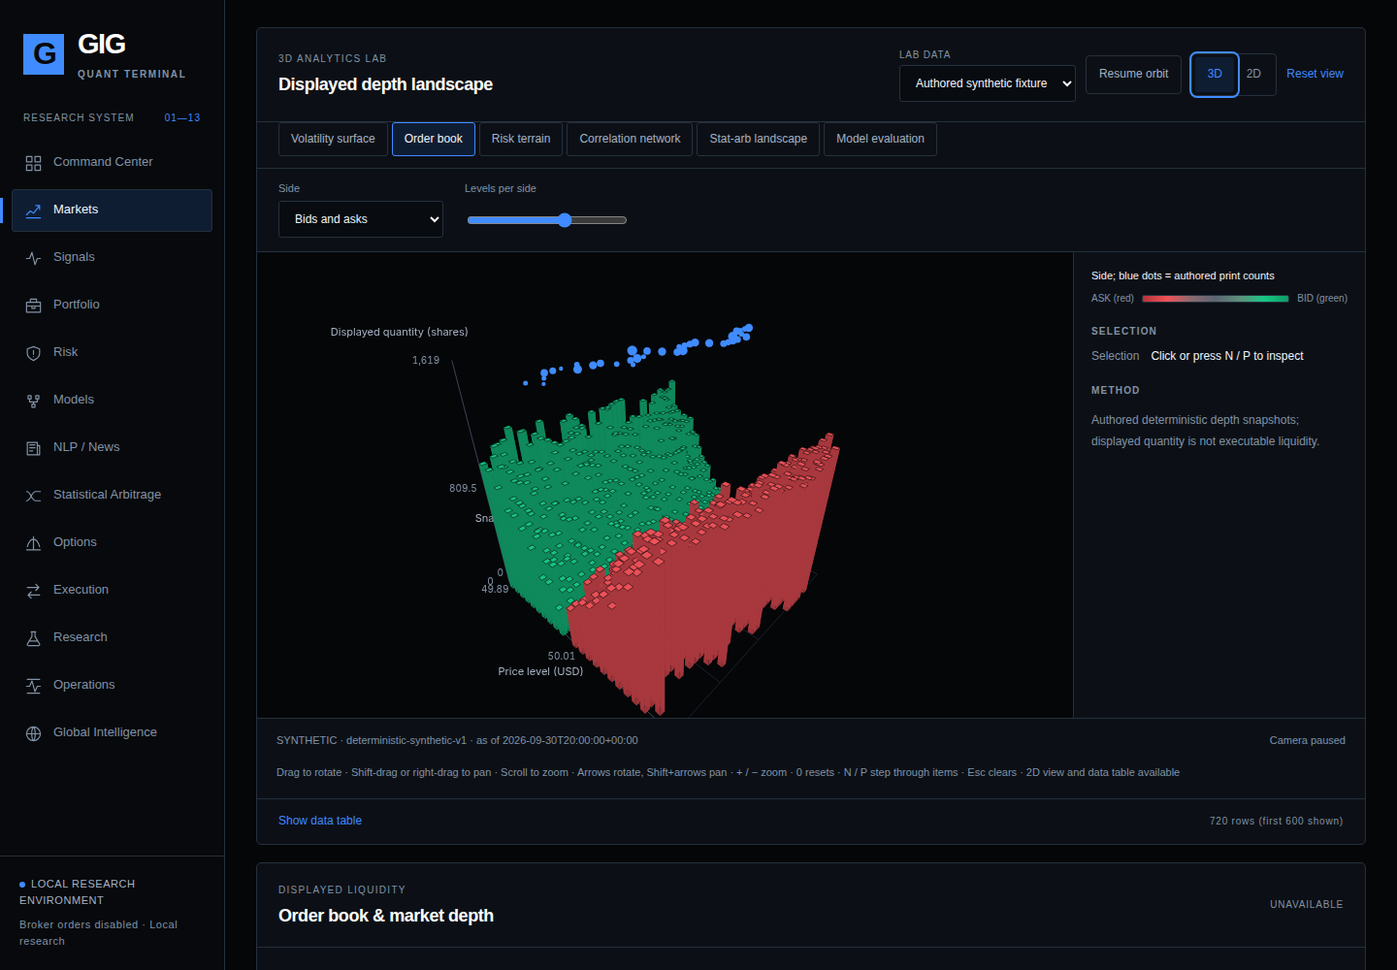
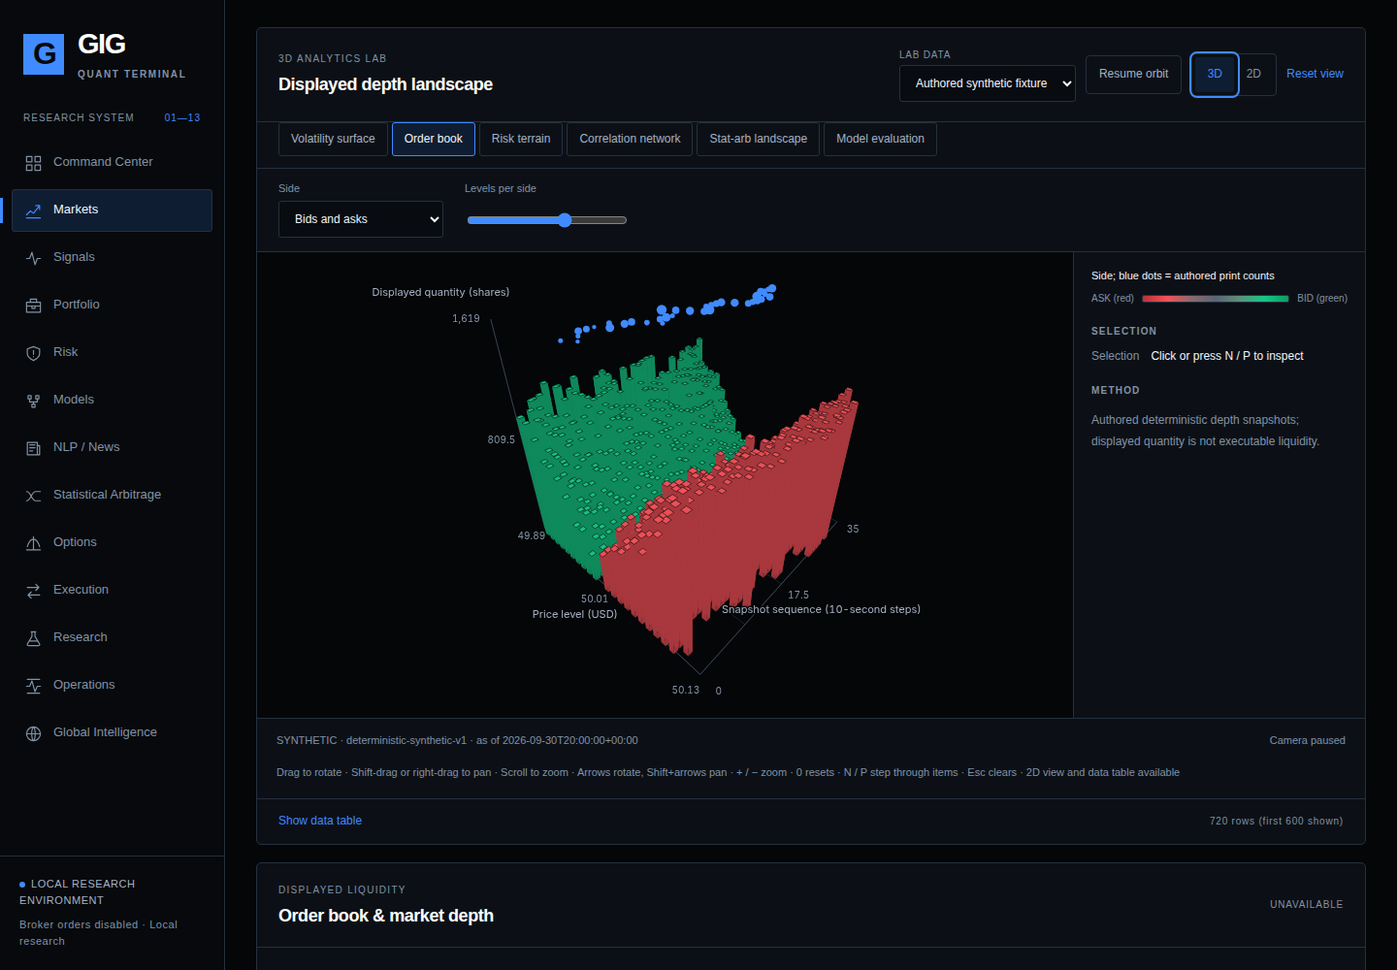
Correct the completion matrix data classes, CI and accessibility evidence; document intel hardening and 3D input sensitivity; add the next-phase plan; regenerate global-3d evidence

Changed region(s): [[0.3438, 0.279, 0.6562, 0.744], [0.2812, 0.279, 0.3438, 0.31], [0.2812, 0.341, 0.3125, 0.372]]

diff --git a/docs/completion-matrix.md b/docs/completion-matrix.md
@@ -2,7 +2,22 @@
 
 Sprint 9 delivery: [sprint9-delivery.md](sprint9-delivery.md). Redesign, 3D lab and Global Intelligence:
 [global-intelligence.md](global-intelligence.md), [analytics-lab-3d.md](analytics-lab-3d.md); backend regression at
-`5ffd805`: 1584 JUnit cases, 0 failed, 11 skipped, 81.89% branch coverage; browser evidence at `fb576a1` (CSS-only change).
+`5ffd805` and again at `47e3180`: 1584 JUnit cases, 0 failed, 11 skipped, 81.89% branch coverage. Follow-up hardening on
+`cursor/gig-next-phase-26c4`: see "Data classes" below and [next-phase plan](next-phase-plan.md).
+
+## Data classes
+
+| Class | Where it appears | What it means |
+| --- | --- | --- |
+| OBSERVED (DELAYED) | USGS earthquakes, NASA EONET events | Acquired from the provider by an explicit refresh; provider feeds lag real time, so never LIVE |
+| CACHED | USGS/EONET after a failed refresh or past the staleness window | Last acquired revision, shown with its acquisition time |
+| HISTORICAL | Replay cutoffs more than one hour in the past; admitted HISTORICAL_OBSERVATION reports | Only revisions acquired at or before the cutoff |
+| CALLER-ASSERTED | Analyst-admitted geopolitical/defense reports | Citation verified as HTTPS and policy-checked; content truth asserted by the admitting analyst |
+| SYNTHETIC / DEMONSTRATION | All six 3D module inputs; authored hazard demonstration events; admitted SYNTHETIC records | Authored data, labelled in the envelope, legend and footer; dashed markers on the globe |
+| UNAVAILABLE | AIS, OpenSky ADS-B, satellite imagery, FIRMS, admitted-local 3D inputs | Listed with blocker; nothing drawn or simulated |
+| CANDIDATE | GDACS | Reachable; reuse terms not reviewed; not ingested |
+
+No sanctions source is in the registry. Sanctions material can enter only as a cited admitted report.
 
 Authority: [Sprint 8 direct-chat directive](directives/sprint8-direct-chat-20261103.md),
 [accelerated master directive](directives/sprint7-master-20261103.md),
@@ -51,22 +66,22 @@ proving completion of new requirements. No baseline source was discarded.
 | OFI, Lee–Ready estimate, Kyle, VPIN (§8) | COMPLETE | Persisted quote/print fixtures and scalar references | True print/quote feeds for observed validation; depth is not executions | P1; permitted source evidence |
 | Executed-cost / market-impact / capacity evidence (§8) | COMPLETE | Sprint 9 `execution/cost_evidence.py`: class-separated ESTIMATED/SIMULATED/OBSERVED_HISTORICAL reports, exact shortfall identity, independent print matching, measured non-causal impact, print-derived capacity; 8 tests; Chromium workbench | No observed executions/prints in repository, so observed class is fixture-exercised only; broker-reconciled class rejected | P1; observed executions/prints absent |
 | Market-data lineage / point-in-time eligibility (§4) | COMPLETE | Sprint 9 `data/provenance.py`: license, permission, five clocks, revision history, CA basis, identity, quality and verified lineage hash; purpose-specific ELIGIBLE/UNKNOWN/INELIGIBLE with parent inheritance; 9 tests | Documented ECB/UCI sources are not point-in-time eligible; vintage evidence required | P0; source clock evidence |
-| Free continuous integration (§13,15) | COMPLETE | Sprint 9 `.github/workflows/ci.yml`: GitHub-hosted 3.11/3.12 backend matrix, native build, lint/types/tests/coverage, Node smoke and Chromium workflow; read-only token | Whole-package mypy drift (9 pre-existing errors) keeps typing scoped to new modules | P1; no paid runners |
+| Free continuous integration (§13,15) | COMPLETE | Sprint 9 `.github/workflows/ci.yml`: GitHub-hosted 3.11/3.12 backend matrix, native build, lint/types/tests/coverage, Node smoke and Chromium workflow; read-only token; green on `47e3180` (runs 41775322422, 41775328878) after `b3c0668` (`python -m pytest`) and `47e3180` (section-ready wait); follow-up branch adds pinned SHA-256-verified axe-core | Whole-package mypy drift (9 pre-existing errors) keeps typing scoped to new modules | P1; no paid runners |
 | Actual funded Greeks, scenarios, concentration/funding (§9) | COMPLETE | Actual positions override hypothetical counts; working-order budgets and mark guards | Extend optional sector/factor/drawdown contracts | P0; scoped model estimates |
 | Funded sector/factor constraints and drawdown (§9) | COMPLETE | Delta-equivalent sector/factor budgets and immutable NAV drawdown tests | Explicit exposure/knowledge metadata and saved history; no inferred zero beta | P0; metadata availability |
 | Historical VaR/ES (§9) | COMPLETE | Empirical reference on 21 comparable daily funded NAV marks; gaps unavailable | New lifecycle must preserve capital/mark comparability | P1; sufficient admissible history |
 | Atomic risk policy/kill, pre-trade/post-event recovery (§9) | COMPLETE | Risk-index/kill rollback, stale post-fill and admission tests | Lifecycle/reconciliation hooks must retain guarantees | P0; none |
 | All twelve sections / typography / themes / 3D / 2D (§10) | COMPLETE | Chromium 78 + retained suites; Node 106 baseline checks | Wire new verified workspaces through existing design | P1; integration work |
-| Institutional deep-black redesign, thirteen sections (UI directive) | COMPLETE | `#050608` palette layer in `styles.css`; twelve original sections preserved plus Global Intelligence; retained Chromium suites 87/24/32/60/78/82/194/28 and global-3d acceptance pass with axe-core contrast in dark and light themes | Visual review on further hardware/browsers | P1; none |
-| Six interactive 3D analytics modules (UI directive) | COMPLETE | `viz.py` + `viz3d.js`/`models3d.js`: vol surface, order-book landscape, risk terrain, correlation network, stat-arb landscape, model evaluation; orbit/zoom/pan/hover/select/filter, axes/legends, keyboard, pause, reduced motion, 2D table fallback, listener cleanup; stored outputs equal recomputation; `tests/test_viz_modules.py`; Chromium global-3d checks | Inputs are labeled SYNTHETIC/DEMONSTRATION; observed option chains, depth and holdings absent | P1; observed inputs |
-| Global Intelligence workspace (UI directive) | COMPLETE | `gig/intel` + `intel_workspace.py` + `intel.js`: orthographic globe and flat map from local Natural Earth geometry, layers, search, timeline playback, feed, cited details, freshness/health, saved investigations; USGS and NASA EONET adapters with revisions and backoff; event study and theme exposure; [design and source disposition](global-intelligence.md) | Maritime AIS, ADS-B, imagery, GDACS, FIRMS and sanctions shown UNAVAILABLE pending permitted free access; no World Monitor (AGPL-3.0) code reused | P1; source permissions/keys |
+| Institutional deep-black redesign, thirteen sections (UI directive) | COMPLETE | `#050608` palette layer in `styles.css`; twelve original sections preserved plus Global Intelligence; retained Chromium suites 87/24/32/60/78/82/194/28 (axe-core) and global-3d acceptance pass; at `47e3180` the global-3d suite had no axe scan; the follow-up branch adds axe WCAG A/AA scans of Options and Global Intelligence in dark and light themes and fixes 3D label clipping/overlap found in screenshot review | Visual review on further hardware/browsers | P1; none |
+| Six interactive 3D analytics modules (UI directive) | COMPLETE | `viz.py` + `viz3d.js`/`models3d.js`: vol surface, order-book landscape, risk terrain, correlation network, stat-arb landscape, model evaluation; orbit/zoom/pan/hover/select/filter, axes/legends, keyboard, pause, reduced motion, 2D table fallback, listener cleanup; stored outputs equal recomputation; `tests/test_viz_modules.py`; Chromium global-3d checks; follow-up branch: builders take explicit inputs, input-sensitivity and no-look-ahead tests, and a browser check that a changed payload changes the rendering | Inputs are labeled SYNTHETIC/DEMONSTRATION; observed option chains, depth and holdings absent | P1; observed inputs |
+| Global Intelligence workspace (UI directive) | COMPLETE | `gig/intel` + `intel_workspace.py` + `intel.js`: orthographic globe and flat map from local Natural Earth geometry, layers, search, timeline playback, feed, cited details, freshness/health, saved investigations; USGS and NASA EONET adapters with revisions and backoff; event study and theme exposure; [design and source disposition](global-intelligence.md) | Maritime AIS, ADS-B, imagery and FIRMS shown UNAVAILABLE and GDACS CANDIDATE pending permitted free access; no sanctions source; follow-up branch refuses off-host redirects before following, fails closed on malformed payloads and records USGS update time separately; no World Monitor (AGPL-3.0) code reused | P1; source permissions/keys |
 | Geopolitical & defense research workspace (UI directive) | COMPLETE | `intel/defense.py`: ≥24h publication delay, 1° coarsening, closed fields, HTTPS citations, exercise not treated as conflict; ARMY/AIR FORCE/NAVY/GEOPOLITICAL aggregates and market risk monitor | Admitted public reports only; no unit or platform tracking, interception or targeting support by design | P0; permanent boundary |
 | New observed/lifecycle/reconciliation terminal workflows (§10) | COMPLETE | Chromium 151: 77 Sprint 7 checks; retained suites 87/24/32; Node 128 | Backend contracts then real Chromium/restart/accessibility checks | P1; backend readiness |
 | Bounds, serialization, errors, secrets, corruption, recovery (§11) | COMPLETE | Existing API, persistence and recovery tests | Repeat focused new-boundary checks, not a full institutional audit | P0; none |
 | CPU C++20 / wheel / installation (§11,13) | COMPLETE | x86 native parity, wheel content hashes/import tests | Reverify new release; no GPU or infrastructure expansion | P1; none |
 | Fresh current container lifecycle (§11) | BLOCKED | Previous Sprint 4 image/restart evidence is scoped to that source | Read-only VFS gate: 0 available Docker-store bytes; requires at least 3 GiB container reserve / 6 GiB plus budget for build | P2; local disk capacity, no source/evidence deletion |
 | Physical Ubuntu 24.04 ARM64/Ampere (§11) | BLOCKED | Prior QEMU evidence explicitly separate | Actual hardware/runtime acceptance required; no spending/provisioning | P2; hardware unavailable |
-| Browser/manual accessibility / cross-browser (§13) | IN PROGRESS | Chromium 151 / axe 4.10.3; Sprint 9 Chromium 156 operations workflow 28/0; Chromium 156 thirteen-section retained suites (585/0) and global-3d acceptance 102/0 with one USGS/EONET request and 100/0 offline, 23 screenshots in `evidence/global-3d/`; selected manual inspection | Chromium194 checks; Firefox153 assets installed but startup timeout/uid_map EROFS/compositor errors; formal accessibility and broader browser acceptance remain open | P1; available tools/hardware |
+| Browser/manual accessibility / cross-browser (§13) | IN PROGRESS | Chromium 151 / axe 4.10.3; Sprint 9 Chromium 156 operations workflow 28/0; Chromium 156 thirteen-section retained suites (585/0) and global-3d acceptance 102/0 with one USGS/EONET request and 100/0 offline at `47e3180`; follow-up branch 107/0 live (USGS 339, EONET 44 acquired) and 105/0 offline including axe WCAG A/AA with 0 violations (1 incomplete item per scan, manual review) on Options and Global Intelligence in both themes; 23 screenshots in `evidence/global-3d/` inspected individually | Chromium194 checks; Firefox153 assets installed but startup timeout/uid_map EROFS/compositor errors; formal accessibility and broader browser acceptance remain open | P1; available tools/hardware |
 | Final comprehensive engineering acceptance (§13,16) | NOT STARTED | This matrix is the available requirements disposition | One final acceptance review after substantive work, not repeated audits | P0; feature completion first |
 | Verified publication and independently restored archives (§14) | COMPLETE | Sprint8 637-file release and643-file follow-up GitHub restores, every hash/mode; rebuilt native wheel and13 numerical checks; local Git bundle | Maintain pinned-source archives at each substantial checkpoint; GitHub is the sole verified external provider | P0; GitHub sole verified external provider |
 | Historical §139 / full T4 acceptance (§3,15,16) | BLOCKED | §139 UNSUPPLIED; T4_NOT_CERTIFIED | Required authoritative acceptance contract and independent evidence | P0; unsupplied requirements |

diff --git a/docs/next-phase-plan.md b/docs/next-phase-plan.md
@@ -1,0 +1,67 @@
+# Next development phase
+
+Follows PR #3 (Sprint 9 reconstruction, deep-black redesign, six 3D modules,
+Global Intelligence). PR #3 stays the review checkpoint; this phase lands on
+follow-up branches based on it.
+
+Boundaries carried unchanged: strict $0 additional spending, no brokerage
+orders (live or paper), no fabricated data, no reuse of third-party code without
+a compatible license, no real-time tracking of military units, aircraft or
+vessels, no targeting or interception support. `fully_funded_certified=false`,
+`T4_NOT_CERTIFIED` and Historical §139 UNSUPPLIED remain.
+
+## Admission gate for any new source
+
+A source moves from CANDIDATE to INTEGRATED only when all of these are recorded
+in `gig.intel.sources` (or the market-data provenance registry) and tested:
+
+1. Reuse terms read and quoted with their URL and review date; redistribution
+   and caching permitted for this use.
+2. Fixed HTTPS endpoint reachable from the CI and agent environments without a
+   paid plan; any free key comes from a secret, never the repository.
+3. Provider rate limit and refresh interval encoded; backoff tested.
+4. Normalizer tested against a recorded real response, with malformed,
+   non-finite and redirect cases failing closed.
+5. Time semantics stated (DELAYED, HISTORICAL or aggregated period); LIVE only
+   with verified real-time semantics.
+
+Listed sources below are candidates. None is asserted usable until it passes
+the gate.
+
+## Workstreams
+
+| Area | Candidate free sources (terms to verify) | Deliverable | Main risk |
+| --- | --- | --- | --- |
+| Permitted real market data | ECB reference rates (integrated); U.S. Treasury Fiscal Data yield curves; SEC EDGAR filings (declared User-Agent, fair-access rate); FRED (free key) | Observed daily rates and filings admitted through `data/provenance.py`; vol-surface and correlation builders run on admitted series where coverage exists | No free licensed equity or option quote feed; most vendor sites forbid redistribution |
+| Maritime | NOAA/BOEM Marine Cadastre historical AIS (U.S. waters, archived); IMF PortWatch aggregates | Historical, aggregated port-call and chokepoint-transit counts by day; no vessel positions | Files are large; aggregate terms need review; global live AIS stays BLOCKED |
+| Civil aviation | BTS on-time and traffic statistics; OpenSky historical (non-commercial, unreachable here) | Monthly and daily aggregated traffic by airport and region | OpenSky network access and terms; no per-aircraft display |
+| Satellite imagery | NASA GIBS WMTS tiles; Sentinel-2 open-data STAC catalogue (not requester-pays) | Optional, user-triggered periodic imagery layer with acquisition date; off by default | External tiles conflict with the current no-external-asset rule, so they need an explicit opt-in; requester-pays buckets excluded |
+| Environmental | NWS alerts API (public domain, User-Agent); GDACS after terms review; FIRMS with a free MAP_KEY secret | Additional DELAYED hazard layers through the same adapter contract | FIRMS key must be supplied by the user as a secret |
+| Historical defense intelligence | UCDP datasets (CC BY 4.0); SIPRI military expenditure (citation terms) | Annual and event-level historical aggregates by country and region, admitted through `intel/defense.py` | Must stay aggregated and delayed; ACLED excluded unless its terms allow this use |
+| Geopolitical market risk | GDELT event aggregates (citation required) | Daily theme-attention counts joined to the risk monitor, labelled not causal | Volume and noise; must not be presented as forecasts |
+| Portfolio exposure and event studies | Funded paper portfolio and admitted observed series already in the repository | Event studies run on admitted ECB/UCI series and funded holdings; theme exposure read from funded positions instead of caller tags where metadata exists | Short observed history limits statistical power |
+| Cross-browser and accessibility | Playwright WebKit and Firefox; axe-core 4.10.3 (pinned) | Same acceptance suites on WebKit and Firefox in CI; axe on all thirteen sections; manual keyboard and screen-reader pass recorded | Firefox failed to start in this VM (uid_map EROFS); may need CI-only runs |
+| Performance | Local measurement only | Budgets for first paint, section switch, 3D frame time and `/api/v1/intel/overview` latency, recorded in CI; lazy section loading kept | Headless timing noise; budgets must be relative |
+
+## Order of work
+
+1. Cross-browser and axe coverage for all sections, since every later feature
+   depends on that acceptance harness.
+2. Market data (Treasury, EDGAR) and event-study integration with funded
+   holdings, because they extend existing provenance code.
+3. Environmental and historical defense aggregates (NWS, UCDP), then maritime
+   and aviation aggregates.
+4. Opt-in imagery layer last, because it changes the external-asset policy.
+5. Performance budgets in parallel once the suites are stable.
+
+## Done for this phase on `cursor/gig-next-phase-26c4`
+
+- Intel acquisition hardening: redirects off the registry host refused before
+  following, strict JSON, payloads that are malformed or contain non-finite
+  values fail closed with backoff, USGS `provider_updated_at`, conservative
+  event-study day 0, and partitioned risk-monitor counts.
+- 3D builders take explicit inputs, with input-sensitivity and no-look-ahead
+  tests and a browser check that rendering follows the payload.
+- 3D label fitting, halos, clamping and collision avoidance.
+- axe-core WCAG A/AA scans of Options and Global Intelligence in both themes,
+  pinned and SHA-256 verified in CI.

diff --git a/docs/global-intelligence.md b/docs/global-intelligence.md
@@ -43,19 +43,31 @@ never emitted: no integrated source has verified real-time semantics.
   DEMONSTRATION; they are drawn with dashed markers.
 
 Each event carries provider, dataset, license, observation time, publication
-time (or "not supplied"), acquisition time, reporting delay, geographic
-uncertainty with its basis, verification state, revision count and hash, and
-citations.
+time (or "not supplied"), provider last-updated time, acquisition time,
+reporting delay, geographic uncertainty with its basis, verification state,
+revision count and hash, and citations.
+
+USGS summary feeds give an `updated` timestamp but no first-publication time,
+so USGS events record `published_at` as not supplied and keep `updated` as
+`provider_updated_at`; the reporting delay is measured to acquisition, not to an
+assumed publication. Non-finite or non-numeric magnitudes and depths are
+recorded as unknown rather than coerced.
 
 ## Provider requests
 
 Reads never contact a provider. `POST /api/v1/intel/refresh` is the only path:
-it accepts only a registry source, uses that source's fixed HTTPS URL, allows
-redirects only to the same host, bounds the response size, enforces the
-source's minimum refresh interval and exponential failure backoff, and appends
-immutable revisions (a changed provider record becomes a new revision; an
-unchanged one is not duplicated). Deferred and failed attempts return a status
-record; previously acquired events remain available as CACHED.
+it accepts only a registry source, uses that source's fixed HTTPS URL, refuses
+any redirect to another host or to a non-HTTPS URL before following it, bounds
+the response size, enforces the source's minimum refresh interval and
+exponential failure backoff, and appends immutable revisions (a changed provider
+record becomes a new revision; an unchanged one is not duplicated).
+
+Provider JSON is parsed strictly (NaN and Infinity rejected). A payload is
+accepted or rejected whole: if any record fails normalization nothing from it is
+stored, so a partial feed is never presented as complete. Every failure
+(HTTP_STATUS, REDIRECT_REJECTED, INVALID_PAYLOAD, TIMEOUT_OR_NETWORK) is logged
+and counts toward backoff. Deferred and failed attempts return a status record;
+previously acquired events remain available as CACHED.
 
 ## Geopolitical and defense research
 
@@ -83,9 +95,15 @@ forecasts, targeting or interception support.
   container shipping, aviation, defense, insurance, regional FX and equities.
   They are labeled RESEARCH_HYPOTHESIS_NOT_CAUSAL.
 - The Geopolitical Market Risk Monitor counts linked events per theme, split
-  into confirmed and unverified; counts are attention indicators, not forecasts.
+  into confirmed, unverified and other (demonstration, scenario or historical),
+  so the three always sum to the event count; counts are attention indicators,
+  not forecasts.
 - Event studies (mean-adjusted or market model) estimate strictly before the
-  event window and are labeled DESCRIPTIVE_SINGLE_EVENT_NOT_CAUSAL.
+  event window and are labeled DESCRIPTIVE_SINGLE_EVENT_NOT_CAUSAL. Day 0 is the
+  first return stamped on or after the event's UTC date
+  (`FIRST_RETURN_ENDING_ON_OR_AFTER_EVENT_UTC_DATE`), so an intraday event on
+  daily data never leaks into the estimation window. Instrument and source must
+  be nonempty bounded strings.
 - Theme exposure accepts long-only holdings with caller-supplied tags; scenario
   shocks apply the most adverse shock once per holding and are labeled
   ANALYTICAL_SCENARIO.

diff --git a/docs/sprint9-delivery.md b/docs/sprint9-delivery.md
@@ -17,7 +17,7 @@ Checkpoint source: `51014c2` on `cursor/sprint9-recovery-26c4`
 | Market-data provenance | `gig.data.provenance`: lineage records with license, access permission, observation/publication/acquisition/ingestion clocks, historical-availability evidence, revision history (null = unknown), corporate-action basis, security identity, quality and content hash; verified `lineage_sha256`; eligibility for archive inspection / point-in-time research / funded allocation with inherited parent failures. Documented ECB and UCI sources are never point-in-time eligible | `tests/test_sprint9_provenance.py` (9) |
 | Terminal exposure | Workbench analytics kinds `cost-evidence` and `provenance` | Chromium workflow below |
 | Browser / operations | `scripts/browser_sprint9.py`: isolated server, static security headers, cross-origin 403, malformed JSON 400, invalid request 422, both workbench analyses in Chromium, restart with deterministic replay, twelve sections render, no JS errors, no external requests | 28 passed, 0 failed, Chromium 156.0.8078.4 ([report](evidence/sprint9/browser/report.json)) |
-| Free CI | `.github/workflows/ci.yml`: GitHub-hosted runners only, read-only permissions, Python 3.11/3.12 backend matrix (ruff, pyflakes, compileall, scoped mypy, pytest with coverage, native build) and a frontend job (Node smoke + Chromium Sprint 9 workflow) | Runs on push/PR; no paid runners |
+| Free CI | `.github/workflows/ci.yml`: GitHub-hosted runners only, read-only permissions, Python 3.11/3.12 backend matrix (ruff, pyflakes, compileall, scoped mypy, pytest with coverage, native build) and a frontend job (Node smoke + Chromium Sprint 9 workflow + offline 3D/Global Intelligence acceptance) | Runs on push/PR; no paid runners. First green on `47e3180` (runs 41775322422, 41775328878), after `b3c0668` switched to `python -m pytest` so `scripts` imports resolve and `47e3180` made the browser check wait for the clicked section to become current |
 
 ## Regression at the checkpoint
 

diff --git a/docs/analytics-lab-3d.md b/docs/analytics-lab-3d.md
@@ -21,9 +21,26 @@ Tests: `tests/test_viz_modules.py`, `scripts/browser_global_3d.py`.
 - The default lab data is the authored synthetic fixture, labeled SYNTHETIC in
   the envelope and footer. "Admitted local evidence" returns UNAVAILABLE for
   every module and renders nothing; no local inputs are inferred.
+- Each builder (`build_vol_surface`, `build_order_book`, `build_risk_terrain`,
+  `build_correlation_network`, `build_stat_arb`, `build_model_evaluation`) is a
+  function of explicit inputs; the authored fixtures are only one caller, so the
+  same code accepts observed inputs once they are admitted.
 - Outputs are deterministic. `scripts/build_viz_fixtures.py` stores them so a
   request does not rerun the HMM and GARCH fits (about 12 s cold); the test
   suite recomputes all six modules and compares them with the stored file.
+- Input-sensitivity tests (`VizInputSensitivityTests`) perturb inputs and check
+  the outputs move as the method requires: one repriced option changes only its
+  implied vol; tripled bid depth raises imbalance; doubled positions double P&L;
+  a negated return series flips its correlations; a truncated price series gives
+  an identical causal stat-arb prefix; and changing data after a fold leaves
+  that fold's scores unchanged (no look-ahead).
+- The browser acceptance intercepts the vol-surface payload, changes it, and
+  checks that the canvas, legend and table change with it, so rendering follows
+  data rather than a prerendered image.
+- Scenes are fitted to the canvas from the projected cube corners and label
+  anchors on resize, mode change and reset; axis labels are drawn after the
+  data with a dark halo, clamped inside the canvas, and tick labels that would
+  overlap are skipped.
 - Model evaluation does not train the BiLSTM here and says so; metrics are not
   trading profitability or economic validation. Correlation is described as
   co-movement, not causation.
